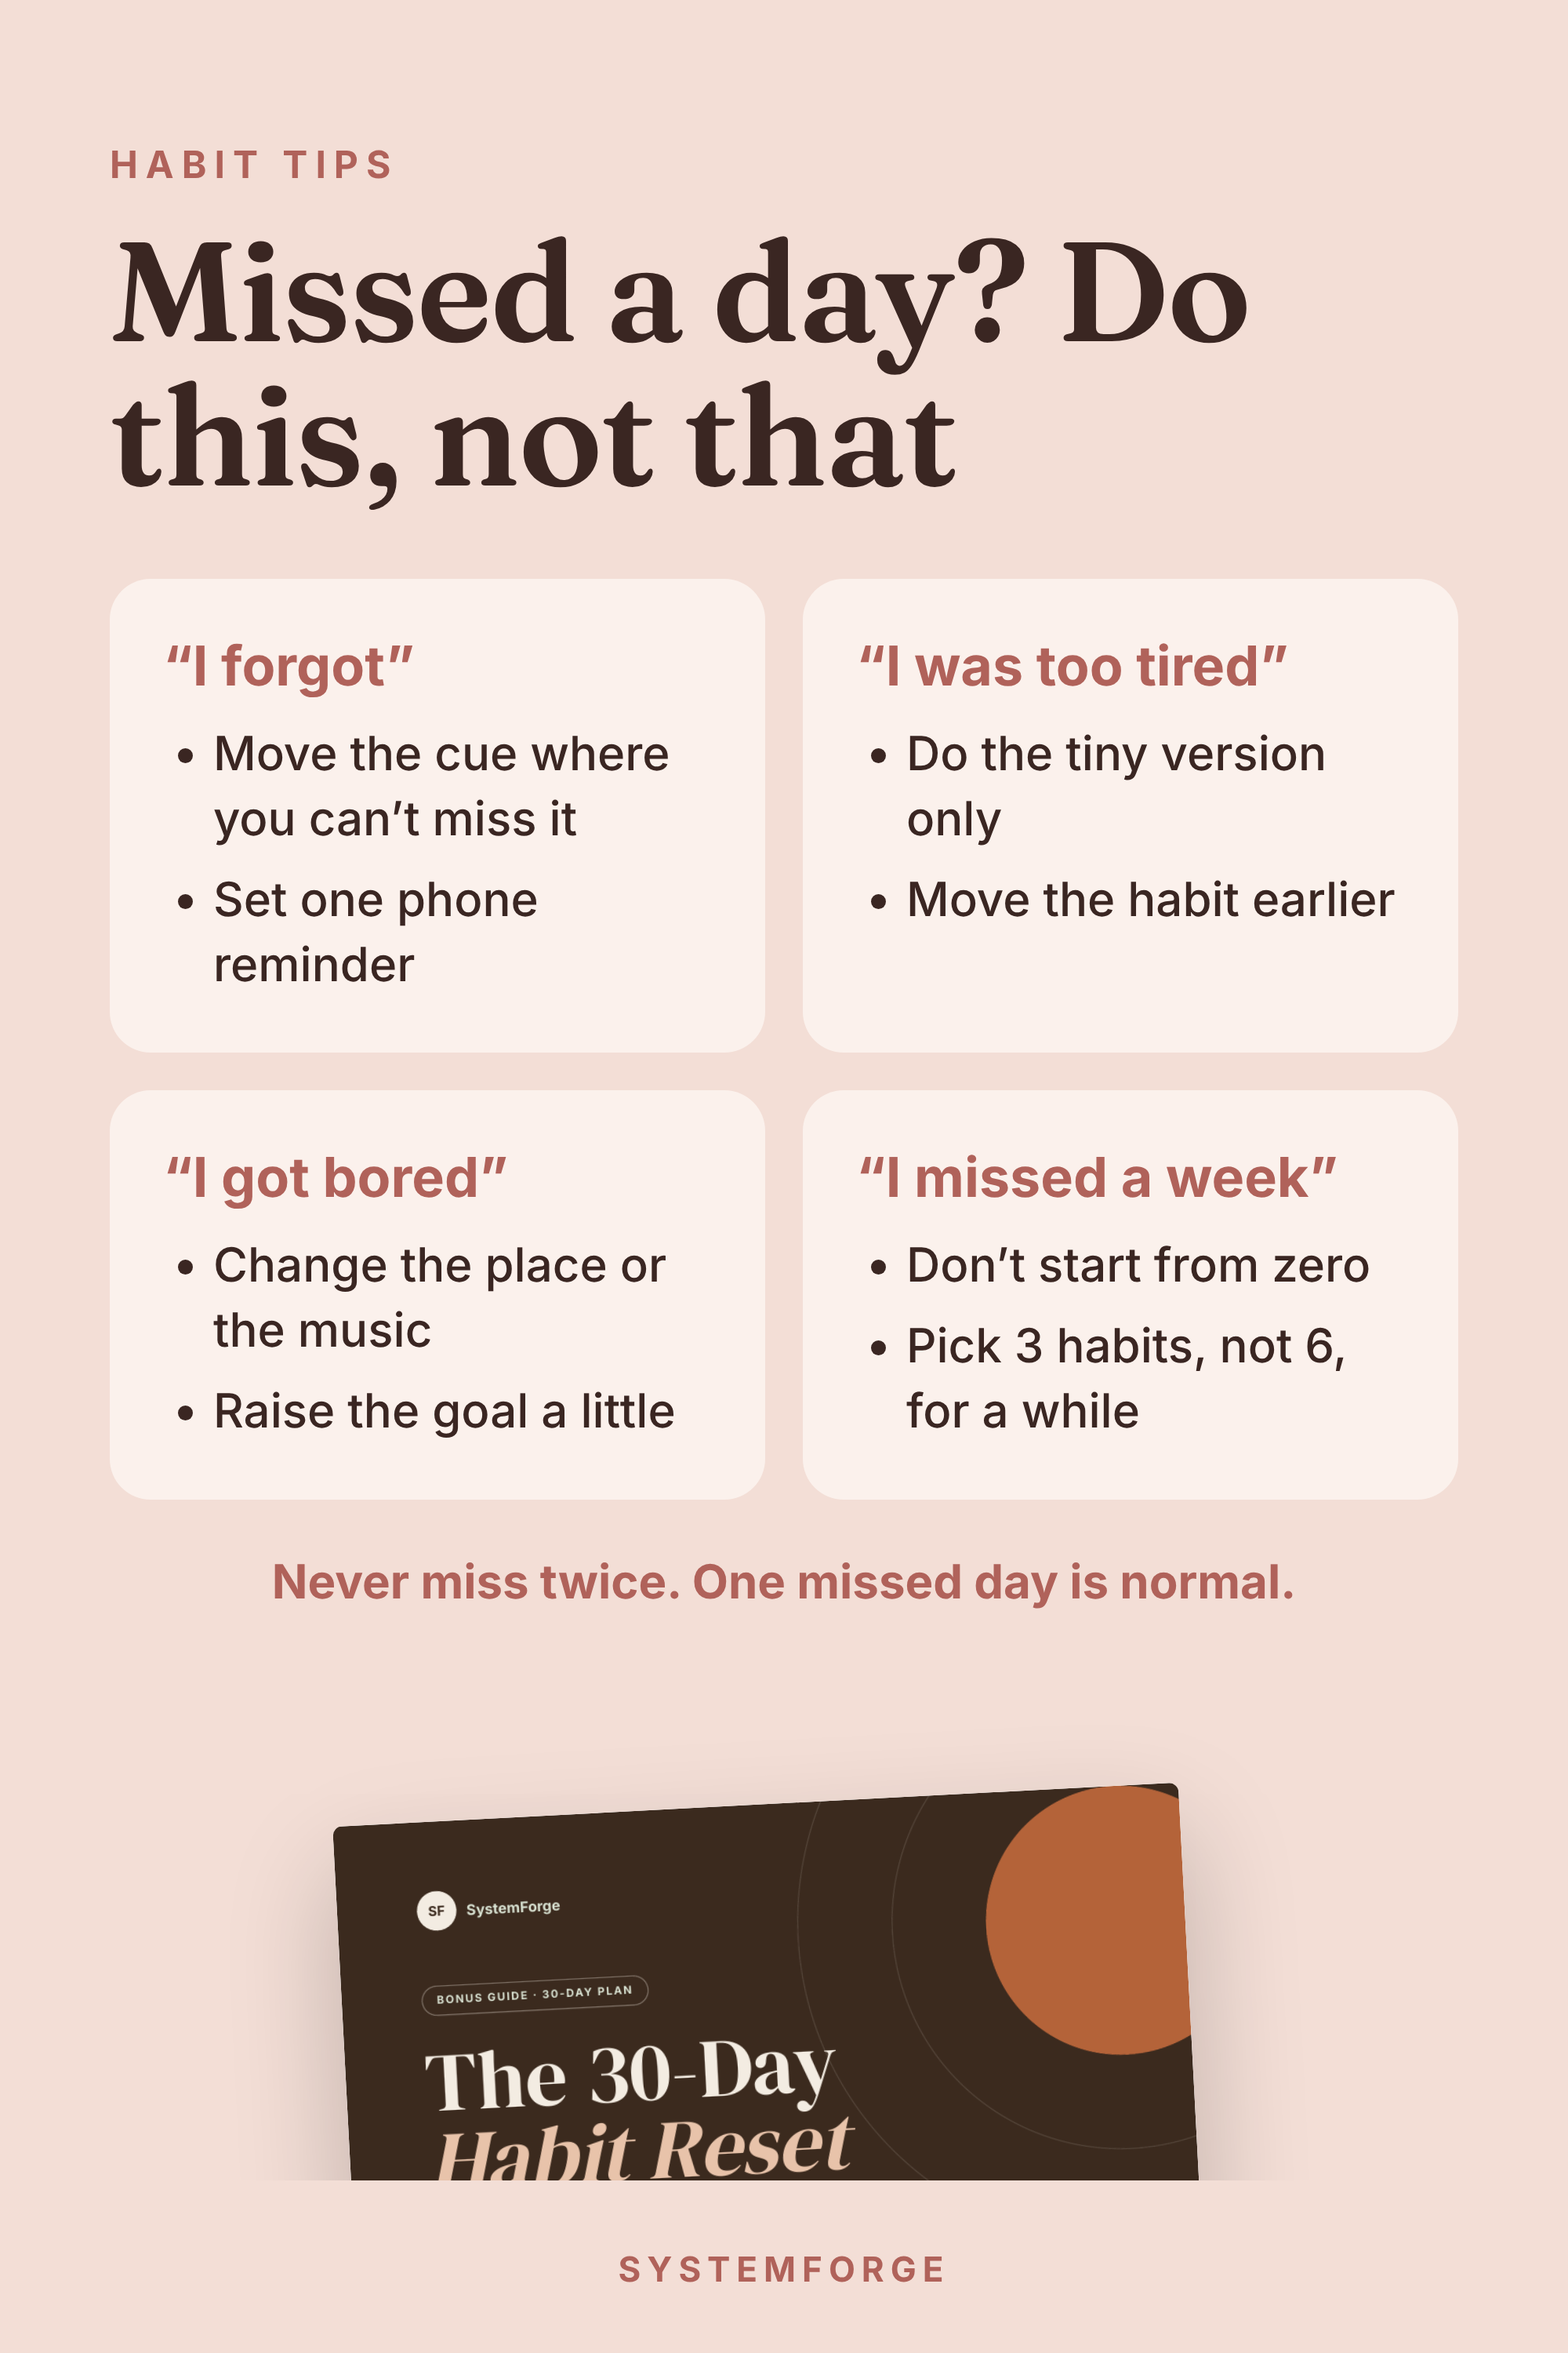
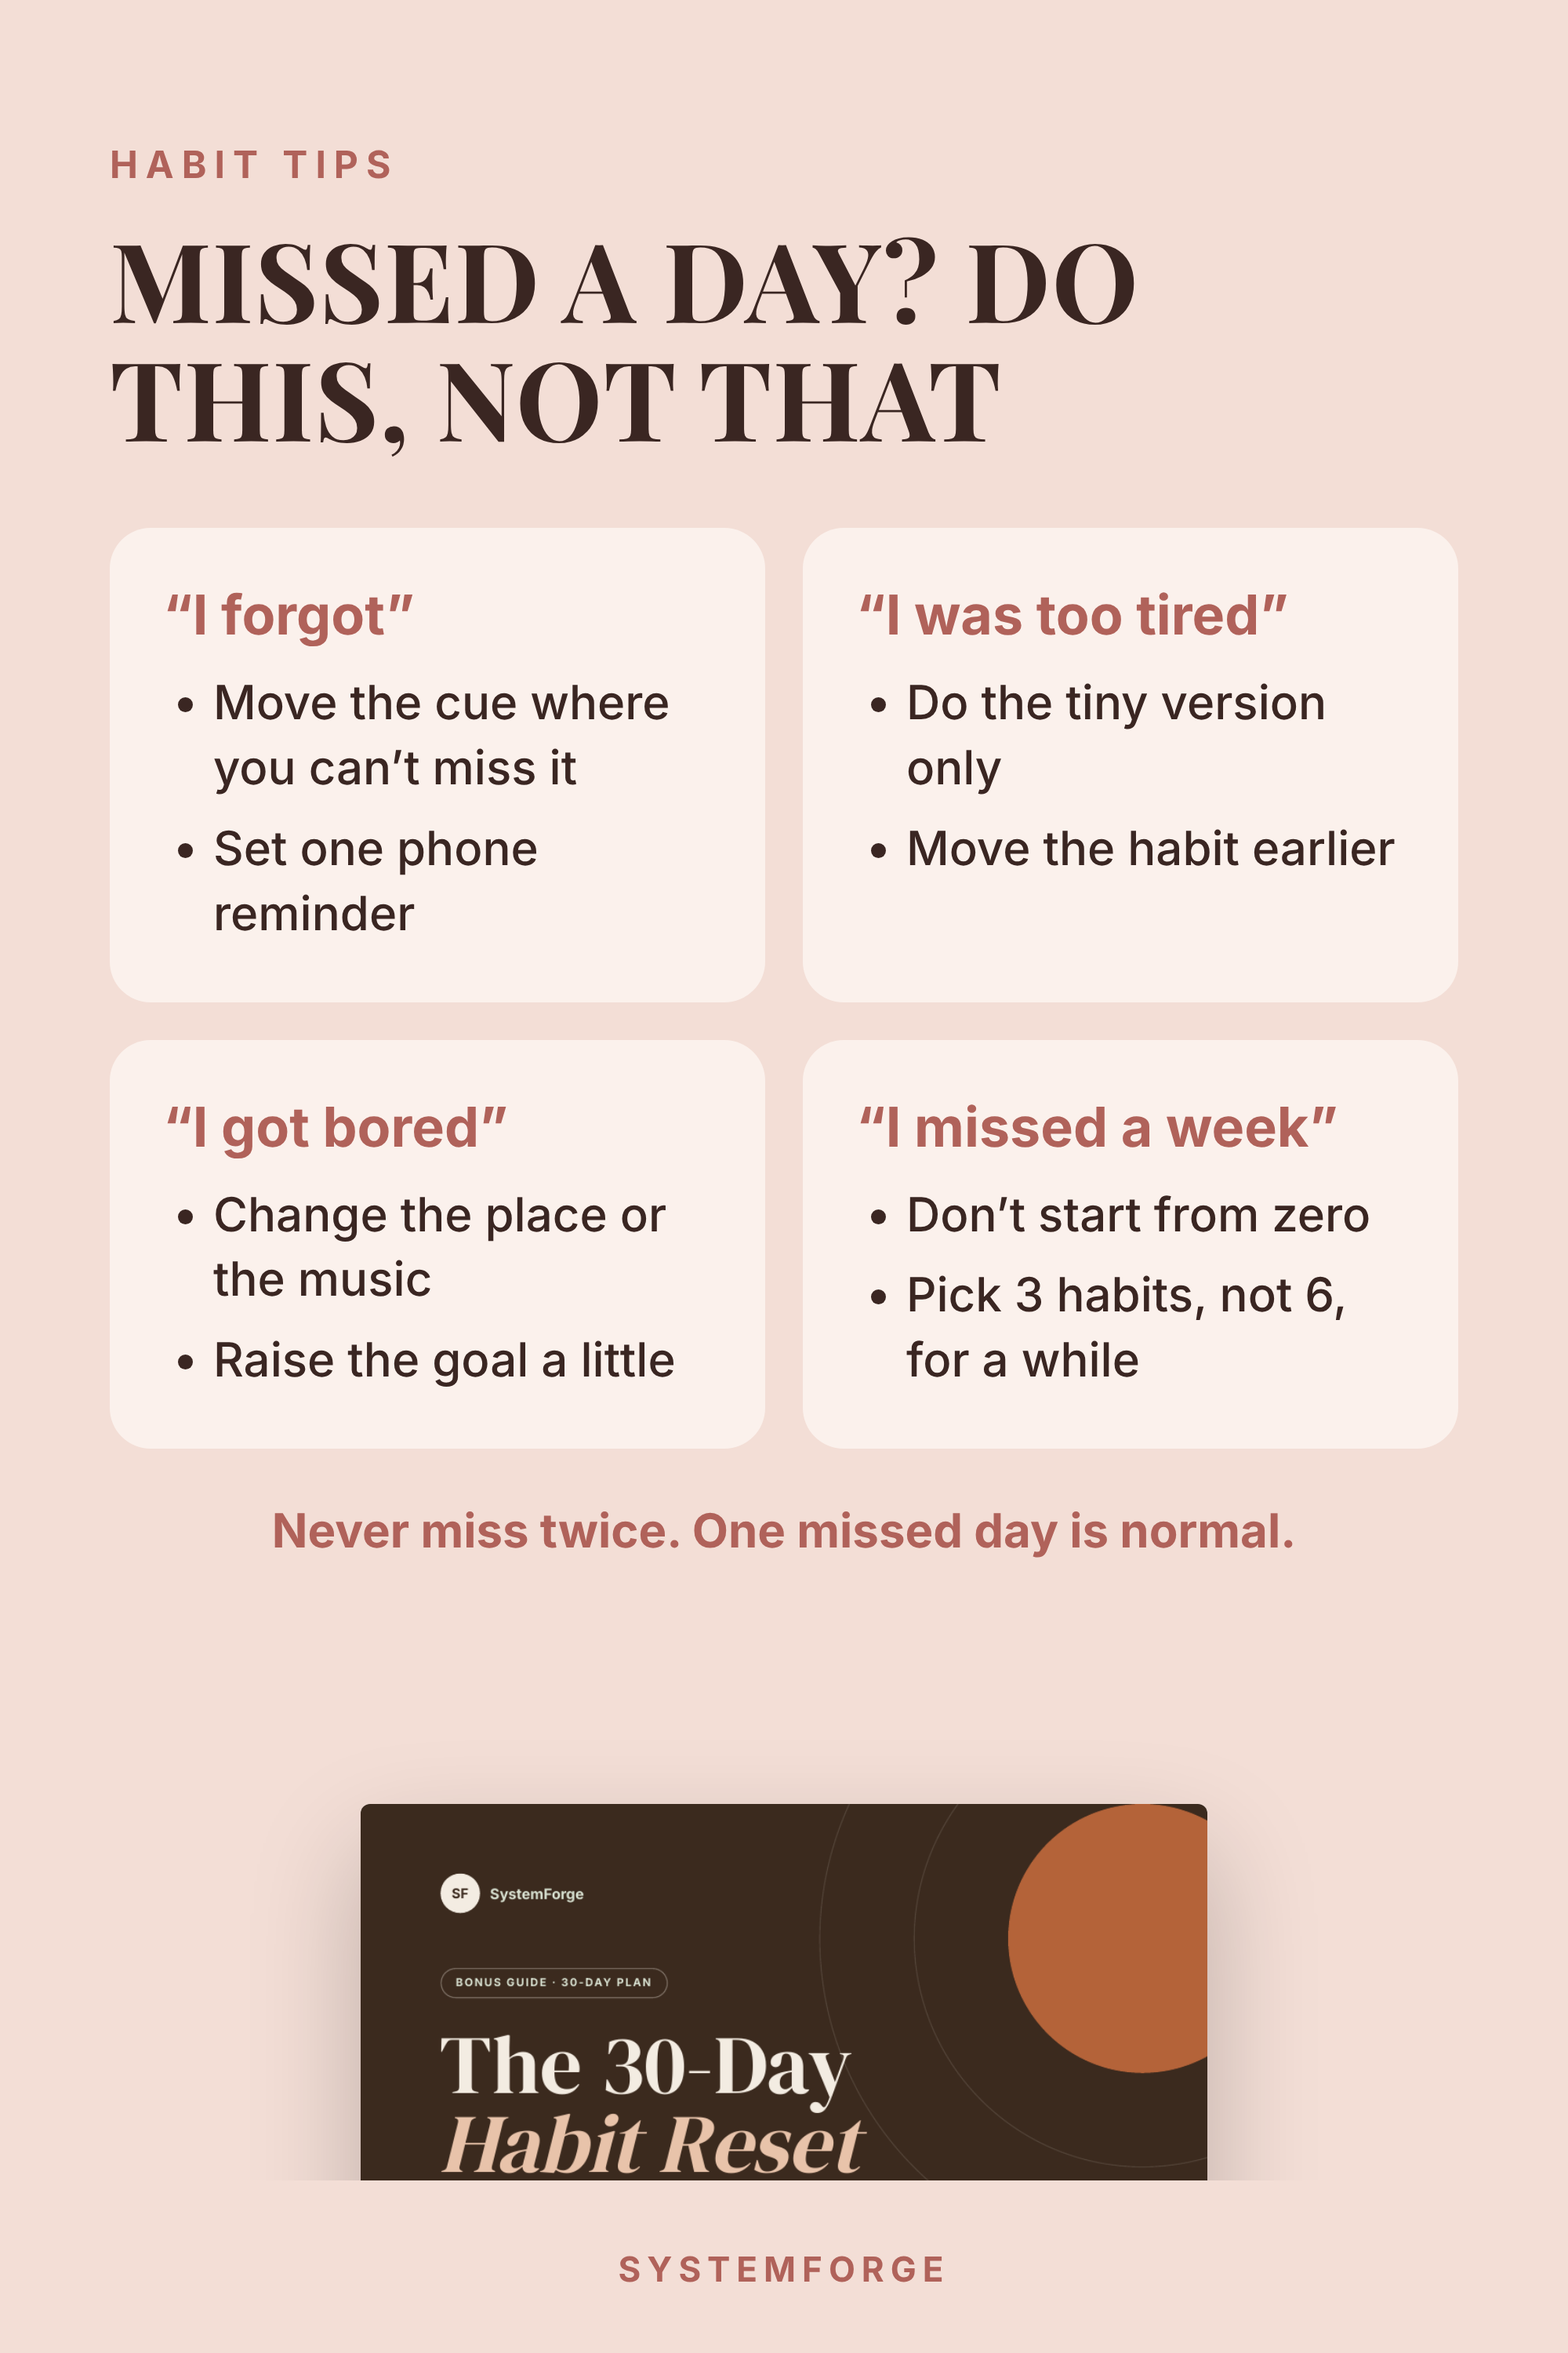
New Year pins: Playfair caps titles with lining numbers, straight pages, Canva export
Claude-Session: https://claude.ai/code/session_01UZq2dLoeHMXUtSzG84xrvE

diff --git a/generator/newyear_pins.py b/generator/newyear_pins.py
@@ -19,13 +19,13 @@ def u(p):
 
 
 CSS = f"""
-@font-face{{font-family:FR;src:url({u(F/'fraunces600.woff2')})}}
+@font-face{{font-family:PF;src:url({u(F/'playfair700.woff2')})}}
 @font-face{{font-family:I5;src:url({u(F/'inter500.woff2')})}}
 @font-face{{font-family:I7;src:url({u(F/'inter700.woff2')})}}
 *{{margin:0;padding:0;box-sizing:border-box}}
 body{{width:1000px;height:1500px;overflow:hidden;position:relative;font-family:I5}}
 .kick{{font-family:I7;font-size:24px;letter-spacing:5px;text-transform:uppercase}}
-h1{{font-family:FR;font-weight:600;line-height:1.02;letter-spacing:-1px}}
+h1{{font-family:PF;font-weight:700;line-height:1.08;letter-spacing:.5px;text-transform:uppercase;font-variant-numeric:lining-nums;font-feature-settings:"lnum" 1}}
 .foot{{position:absolute;bottom:40px;left:0;right:0;text-align:center;font-family:I7;font-size:22px;letter-spacing:4px}}
 .paper{{position:absolute;background:#fff;box-shadow:0 30px 70px rgba(0,0,0,.22);border-radius:6px;overflow:hidden}}
 .paper img{{width:100%;display:block}}
@@ -53,19 +53,19 @@ SRC = R / 'pins/ny/src'
 def peek(T, img, top=1150):
     if not img:
         return ''
-    return (f'<div class="paper" style="left:230px;top:{top}px;width:540px;transform:rotate(-3deg)"><img src="{u(img)}"></div>'
+    return (f'<div class="paper" style="left:230px;top:{top}px;width:540px;transform:none"><img src="{u(img)}"></div>'
             f'<div style="position:absolute;left:0;right:0;bottom:0;height:110px;background:{T["bg"]}"></div>')
 
 
-def printable(t, kick, title, imgs, badge, size=96):
+def printable(t, kick, title, imgs, badge, size=78):
     """Free printable: title on top, 1 or 2 real pages fanned below."""
     T = THEMES[t]
     pages = ''
     if len(imgs) == 1:
-        pages = f'<div class="paper" style="left:190px;top:560px;width:620px;transform:rotate(-2deg)"><img src="{u(imgs[0])}"></div>'
+        pages = f'<div class="paper" style="left:190px;top:560px;width:620px;transform:none"><img src="{u(imgs[0])}"></div>'
     else:
-        pages = (f'<div class="paper" style="left:90px;top:600px;width:520px;transform:rotate(-6deg)"><img src="{u(imgs[0])}"></div>'
-                 f'<div class="paper" style="left:400px;top:560px;width:520px;transform:rotate(4deg)"><img src="{u(imgs[1])}"></div>')
+        pages = (f'<div class="paper" style="left:90px;top:600px;width:520px;transform:none"><img src="{u(imgs[0])}"></div>'
+                 f'<div class="paper" style="left:400px;top:560px;width:520px;transform:none"><img src="{u(imgs[1])}"></div>')
     return f'''<body style="background:{T['bg']};color:{T['ink']}">
 <div style="position:absolute;left:70px;right:70px;top:80px;text-align:center">
 <div class="kick" style="color:{T['acc']}">{kick}</div>
@@ -75,7 +75,7 @@ def printable(t, kick, title, imgs, badge, size=96):
 <div class="foot" style="color:{T['acc']};background:{T['bg']};padding-top:22px;bottom:0;height:100px">{FOOT}</div></body>'''
 
 
-def steps(t, kick, title, items, note='', size=90, img=None):
+def steps(t, kick, title, items, note='', size=70, img=None):
     """Numbered tips list. items = [(bold, text)]."""
     T = THEMES[t]
     rows = ''.join(f'<div class="row"><div class="n" style="background:{T["acc"]};color:{T["bg"]}">{i+1}</div>'
@@ -89,7 +89,7 @@ def steps(t, kick, title, items, note='', size=90, img=None):
 {peek(T, img)}<div class="foot" style="color:{T['acc']}">{FOOT}</div></body>'''
 
 
-def grid(t, kick, title, cards, note='', size=90, img=None):
+def grid(t, kick, title, cards, note='', size=70, img=None):
     """2x2 cards. cards = [(head, [lines])]."""
     T = THEMES[t]
     cs = ''.join(f'<div class="card" style="background:{T["soft"]}"><b style="color:{T["acc"]}">{h}</b><ul>'
@@ -103,12 +103,12 @@ def grid(t, kick, title, cards, note='', size=90, img=None):
 {peek(T, img)}<div class="foot" style="color:{T['acc']}">{FOOT}</div></body>'''
 
 
-def listing(t, kick, title, items, img=None, size=84):
+def listing(t, kick, title, items, img=None, size=70):
     """Two-column list of short lines (prompts / ideas), optional page peek at the bottom."""
     T = THEMES[t]
     half = (len(items) + 1) // 2
     col = lambda xs, st: ''.join(f'<div style="font-size:31px;line-height:1.3;margin-bottom:24px"><span style="font-family:I7;color:{T["acc"]}">{st+i:02d}</span>&nbsp; {x}</div>' for i, x in enumerate(xs))
-    pk = f'<div class="paper" style="left:250px;top:1160px;width:500px;transform:rotate(-2deg)"><img src="{u(img)}"></div>' if img else ''
+    pk = f'<div class="paper" style="left:250px;top:1160px;width:500px;transform:none"><img src="{u(img)}"></div>' if img else ''
     return f'''<body style="background:{T['bg']};color:{T['ink']}">
 <div style="position:absolute;left:80px;right:80px;top:90px">
 <div class="kick" style="color:{T['acc']}">{kick}</div>
@@ -122,7 +122,7 @@ G = lambda n: FREE / f'Free-Printable-2027-Goal-Planner-p-{n}.png'
 P = {
     # ---- goals / vision board (Life Planner + free 2027 goal planner)
     'ny-01': printable('sage', 'Free printable · 2027', '2027 goal planner<br>+ vision board', [G(1), G(3)], 'FREE PDF · PRINT AT HOME'),
-    'ny-02': printable('blush', 'New year vision board', 'Make your 2027<br>vision board on paper', [G(3)], 'FREE PRINTABLE', size=88),
+    'ny-02': printable('blush', 'New year vision board', 'Make your 2027<br>vision board on paper', [G(3)], 'FREE PRINTABLE', size=70),
     'ny-03-tip': steps('cream', 'New years goals', 'How to set 2027 goals you’ll actually keep', [
         ('Only 1 to 3 goals', 'Each new goal takes energy from the others.'),
         ('Make it clear', '“Get fit” is vague. “Run a 10K on Dec 13” is clear.'),
@@ -141,14 +141,14 @@ P = {
         ('🗓 Plan · 5 min', ['Pick 3 important things', 'Put them in your calendar', 'Say no to one thing']),
         ('✨ Dream · 2 min', ['Look at your vision board', 'Add a new dream', 'Remember your why']),
         ('🔁 Off track?', ['Make the next step smaller', 'Change the plan, not the goal', 'Start again this Sunday']),
-    ], size=82),
+    ], size=66),
     # ---- journaling (Daily Journal + free gratitude journal)
     'ny-06': listing('blush', 'Free printable', '30 gratitude journal prompts', [
         'A person who made you smile this week', 'A small thing you love about your home', 'A skill you are glad you have',
         'A meal you really enjoyed', 'A place that makes you calm', 'Something your body did for you today',
         'A friend you can always call', 'A mistake that taught you something', 'A song that lifts your mood',
         'Something you have now that you once wished for',
-    ], img=FREE / 'Free-Printable-Gratitude-Journal-p-1.png', size=80),
+    ], img=FREE / 'Free-Printable-Gratitude-Journal-p-1.png', size=64),
     'ny-07-tip': grid('cream', 'New year journal prompts', 'Journal prompts for every mood', [
         ('😄 Good day', ['What made today good?', 'What am I proud of?', 'What do I want to remember?']),
         ('😔 Low day', ['What do I need right now?', 'What is still okay today?', 'Who can I talk to?']),
@@ -188,7 +188,7 @@ P = {
     ], note='Never miss twice. One missed day is normal.', img=SRC / 'habit-cover-1.png'),
     # ---- budget (Budget Planner + free budget planner)
     'ny-13': printable('cream', 'Free printable · budget planner', 'Budget, bills, savings and debt on paper',
-                       [FREE / 'Free-Printable-Budget-Planner-p-1.png', FREE / 'Free-Printable-Budget-Planner-p-2.png'], 'FREE PDF · PRINT AT HOME', size=84),
+                       [FREE / 'Free-Printable-Budget-Planner-p-1.png', FREE / 'Free-Printable-Budget-Planner-p-2.png'], 'FREE PDF · PRINT AT HOME', size=67),
     'ny-14-tip': steps('navy', 'Budget planner', 'Money reset in 7 days', [
         ('Day 1', 'Find your real income, after tax.'),
         ('Day 2', 'List every bill and subscription with its due day.'),
@@ -197,16 +197,41 @@ P = {
         ('Day 5', 'List your debts with balance and interest rate.'),
         ('Day 6', 'Pick one savings goal: start with $500.'),
         ('Day 7', 'Plan a 5-minute money check every Sunday.'),
-    ], size=80),
+    ], size=64),
     'ny-15-tip': grid('sand', 'Budgeting tips', 'The 50/30/20 budget on $3,000 a month', [
         ('50% · Needs', ['About $1,500', 'Rent, food, bills, transport']),
         ('30% · Wants', ['About $900', 'Fun, eating out, hobbies']),
         ('20% · Savings & debt', ['About $600', 'Safety cushion first']),
         ('Rent is high?', ['Try 60/20/20', 'The best budget is the one you keep']),
-    ], note='Simple method, not financial advice.', img=SRC / 'budget-cover-1.png', size=82),
+    ], note='Simple method, not financial advice.', img=SRC / 'budget-cover-1.png', size=66),
 }
 
-if __name__ == '__main__':
+def canva_html(sha):
+    """Same pins as one HTML file for Canva import (raw GitHub images at a commit, Google fonts)."""
+    import re
+    raw = f'https://raw.githubusercontent.com/samibd778-lab/systemforge-pins/{sha}/'
+    css = CSS.replace('font-family:PF', "font-family:'Playfair Display'").replace('font-family:I7', 'font-family:Inter;font-weight:700') \
+             .replace('font-family:I5', 'font-family:Inter;font-weight:500')
+    css = re.sub(r'@font-face\{[^}]*\}', '', css).replace('body{width:1000px;height:1500px;overflow:hidden;position:relative;', '.pg{width:1000px;height:1500px;overflow:hidden;position:relative;')
+    pages = []
+    for k, body in P.items():
+        b = body.replace(R.as_uri() + '/', raw)
+        b = re.sub(r'<body style="([^"]*)">', lambda m: f'<div class="pg" data-document-role="page" data-label="{k}" style="{m.group(1)}">', b, 1).replace('</body>', '</div>')
+        b = b.replace('font-family:I7', 'font-family:Inter;font-weight:700')
+        pages.append(b)
+    html = ('<!doctype html><html><head><meta charset="utf-8"><link href="https://fonts.googleapis.com/css2?family=Inter:wght@500;700'
+            '&family=Playfair+Display:wght@700&display=swap" rel="stylesheet"><style>body{margin:0}' + css + '</style></head><body>'
+            + '\n'.join(pages) + '</body></html>')
+    out = R / 'canva/ny/pins-ny.html'
+    out.parent.mkdir(parents=True, exist_ok=True)
+    out.write_text(html)
+    return out
+
+
+import sys
+if __name__ == '__main__' and len(sys.argv) > 2 and sys.argv[1] == 'canva':
+    print(canva_html(sys.argv[2]))
+elif __name__ == '__main__':
     tmp = OUT / '_t.html'
     for k, body in P.items():
         tmp.write_text(f'<!doctype html><html><head><meta charset="utf-8"><style>{CSS}</style></head>{body}</html>')
